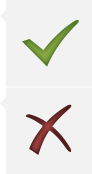
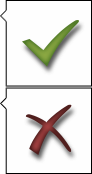
contrast update on level

diff --git a/app/assets/stylesheets/_level.css.scss b/app/assets/stylesheets/_level.css.scss
@@ -8,7 +8,7 @@ h1.alpha {
 
 .level {
   & > .row:first-child {
-    border-bottom: 1px solid $med-grey;
+    border-bottom: 1px solid black;
     margin-bottom: 15px;
   }
   .counter {
@@ -26,16 +26,16 @@ h1.alpha {
     margin-bottom: 20px;
   }
   .level-topic {
-    background: rgb(247,247,247);
-    border: 1px solid lighten($med-grey, 10%);
+    // background: rgb(247,247,247);
+    border: 1px solid black;
     padding: 10px;
   }
 
   .topic-details {
     text-align: center;
-    border-left: 1px solid $med-grey;
+    border-left: 1px solid black;
     h2 {
-      color: $med-grey;
+      color: black;
       margin-bottom: 10px;
     }
     .topic-description {
@@ -56,15 +56,15 @@ h1.alpha {
   }
   .btn-start-topic {
     background-image:none;
-    background-color: $med-grey;
-    color: darken($med-grey, 40%);
+    background-color: black;
+    color: white;
     padding: 5px 50px;
     border: none;
     font-weight: 700;
     @include border-radius(3px);
-    // @include text-shadow(1px 1px 1px #888);
+    @include text-shadow(none);
     &:hover {
-      background-color: darken($med-grey, 10%);
+      background-color: lighten(black, 20%);
     }
   }
 }
@@ -76,13 +76,13 @@ h1.alpha {
   margin: 50px 0 30px -15px;
   @include adjust-font-size-to(35px);
   text-decoration: none;
-  color: darken($med-grey, 20%);
+  color: black;
   padding: 70px 160px 0 20px;
   text-align: center;
   background: rgb(233, 233, 233) url(bonus-round.png) right 0 no-repeat;
   &:hover {
     text-decoration: none;
-    color: darken($med-grey, 40%);
+    color: lighten(black, 20%);
   }
   &.unlocked {
     background-color: rgb(220, 233, 220);

diff --git a/app/assets/stylesheets/_layout.scss b/app/assets/stylesheets/_layout.scss
@@ -7,6 +7,7 @@ body{
   font-family: arial, helvetica, sans-serif;
   padding-top: 60px;
   color: black;
+  // background: #ffff00;
 }
 
 .main-container{
